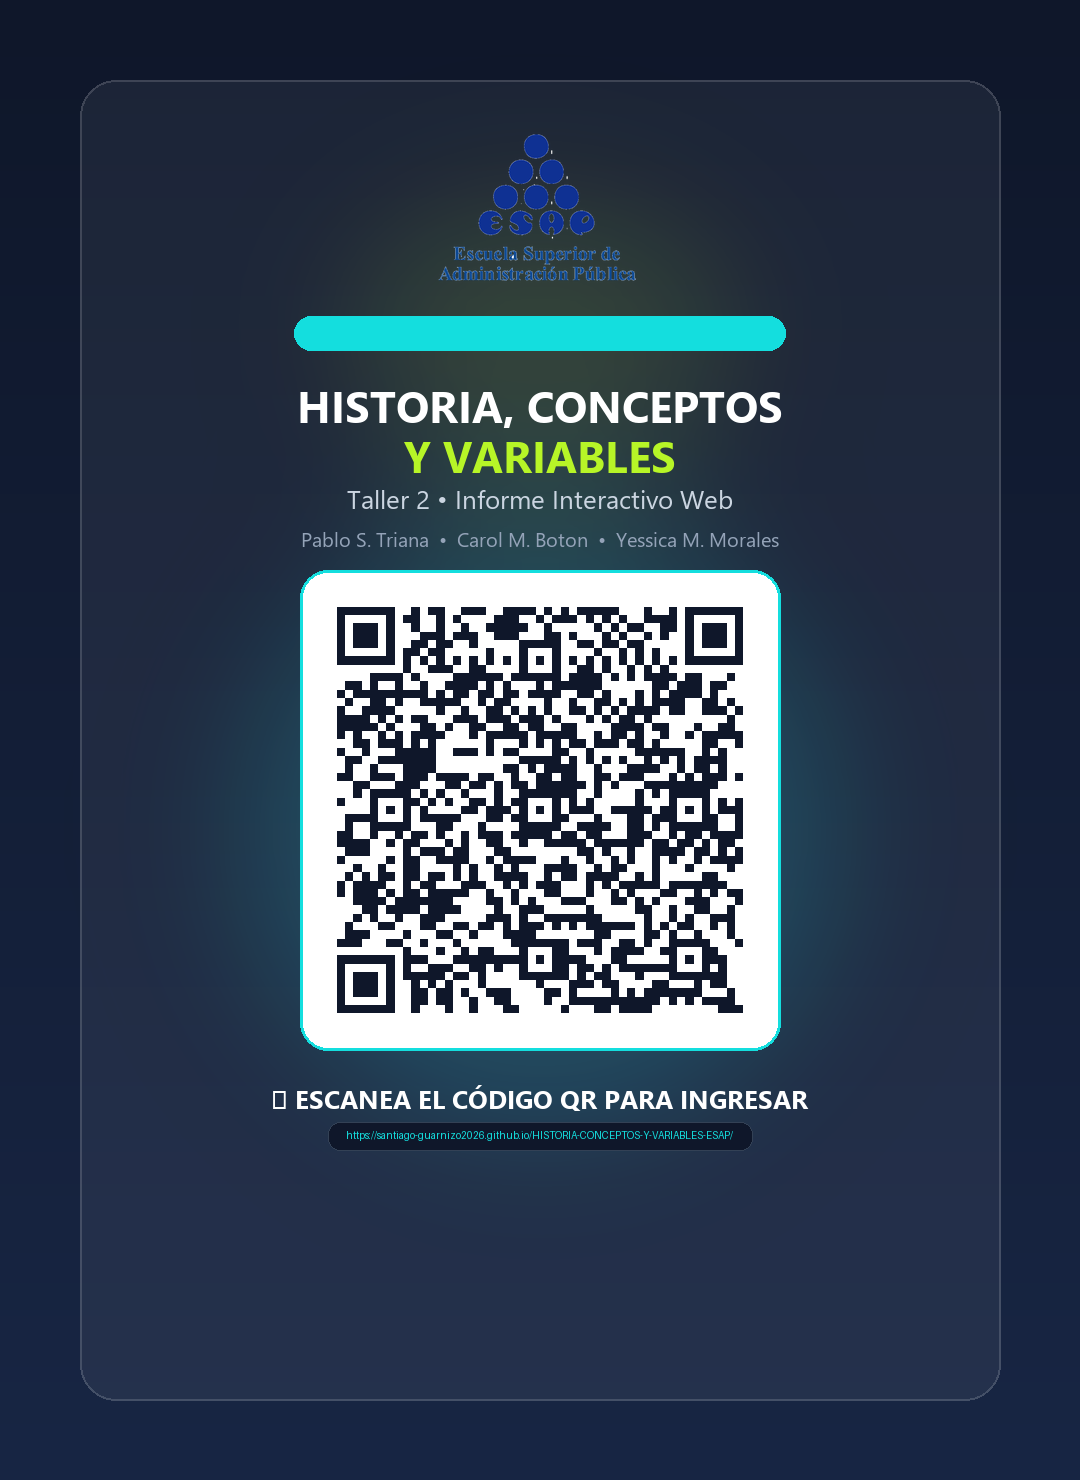
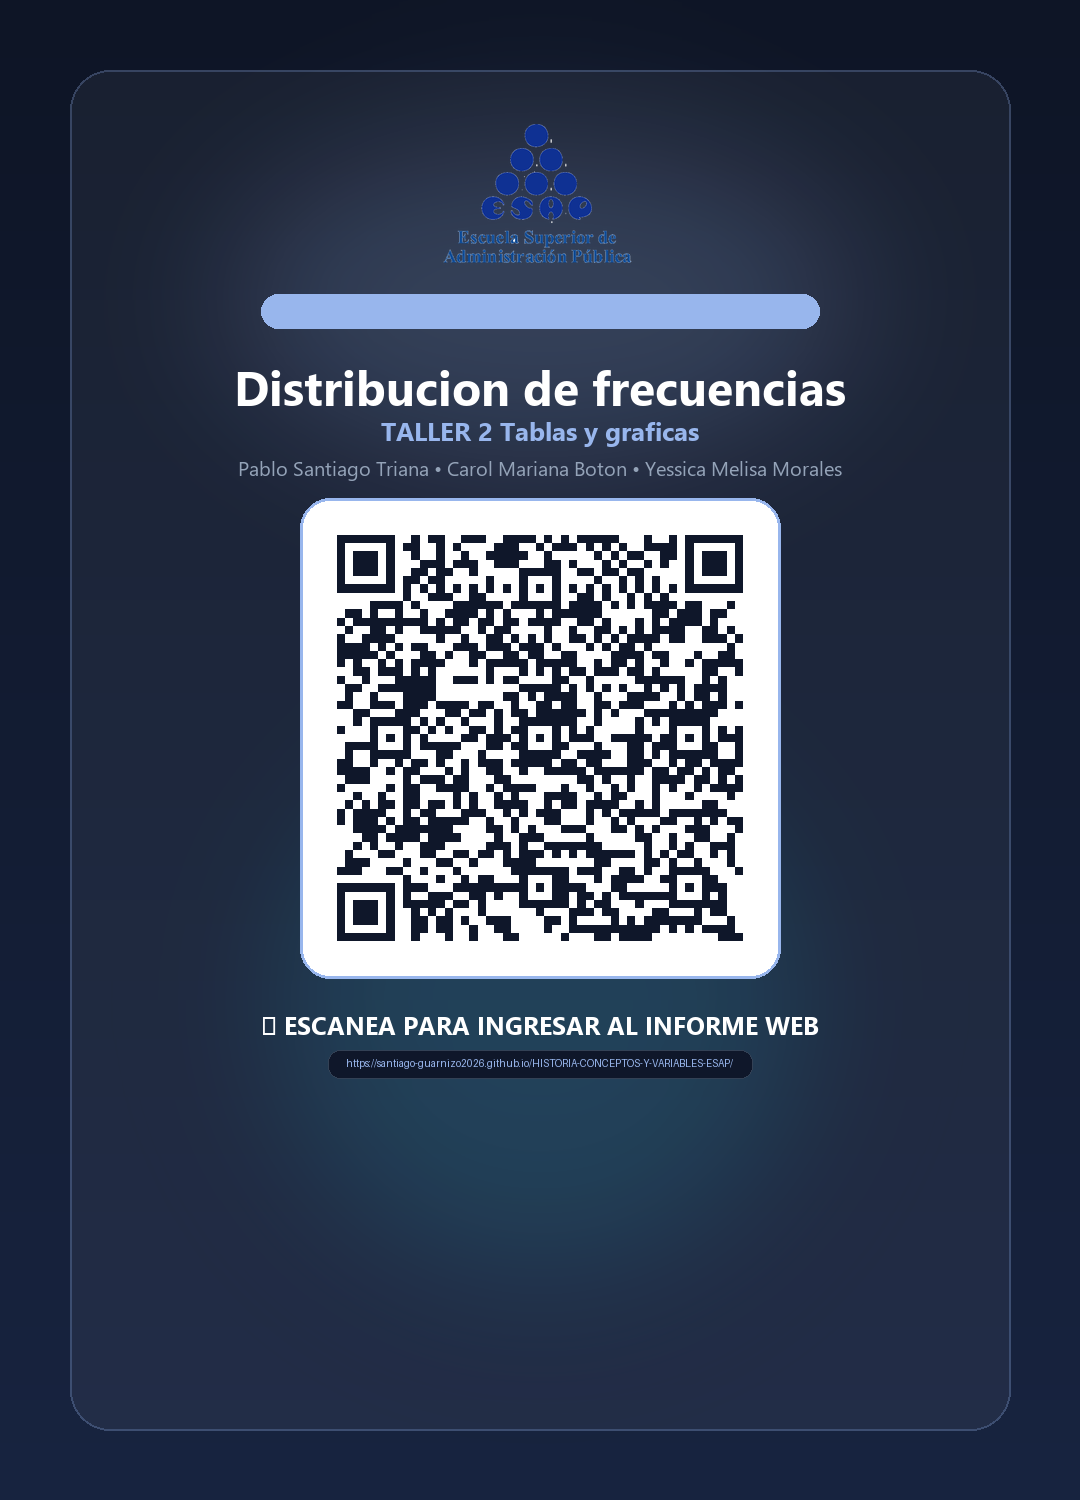
update: cambiar titulo a 'Distribucion de frecuencias' y subtitulo a 'TALLER 2 Tablas y graficas'

Changed region(s): [[0.2139, 0.0622, 0.7944, 0.777], [0.9167, 0.0622, 0.9472, 0.9324], [0.0611, 0.0622, 0.0917, 0.9324]]

diff --git a/index.html b/index.html
@@ -8,7 +8,7 @@
 
 <meta name="author" content="Pablo Santiago Triana Guarnizo Carol Mariana Boton Soto Yessica Melisa Morales Soto">
 
-<title>HISTORIA, CONCEPTOS Y VARIABLES ESAP</title>
+<title>Distribucion de frecuencias</title>
 <style>
 /* Default styles provided by pandoc.
 ** See https://pandoc.org/MANUAL.html#variables-for-html for config info.
@@ -45,7 +45,7 @@ ul.task-list li input[type="checkbox"] {
 <style>
 
       .quarto-title-block .quarto-title-banner {
-        background: #B7F527;
+        background: #98B6ED;
       }
 </style>
 <script src="index_files/libs/kePrint-0.0.1/kePrint.js"></script>
@@ -104,8 +104,8 @@ window.Quarto = {
 <header id="title-block-header" class="quarto-title-block default page-columns page-full">
   <div class="quarto-title-banner page-columns page-full">
     <div class="quarto-title column-page-left">
-      <h1 class="title">HISTORIA, CONCEPTOS Y VARIABLES ESAP</h1>
-            <p class="subtitle lead">TALLER_2</p>
+      <h1 class="title">Distribucion de frecuencias</h1>
+            <p class="subtitle lead">TALLER 2 Tablas y graficas</p>
                       </div>
   </div>
     

diff --git a/generate_qr_card.py b/generate_qr_card.py
@@ -6,7 +6,7 @@ def create_qr_card():
     # Target URL
     target_url = "https://santiago-guarnizo2026.github.io/HISTORIA-CONCEPTOS-Y-VARIABLES-ESAP/"
     
-    # Generate high quality QR code
+    # Generate high quality QR code with High Error Correction
     qr = qrcode.QRCode(
         version=None,
         error_correction=qrcode.constants.ERROR_CORRECT_H,
@@ -19,39 +19,46 @@ def create_qr_card():
     qr_img = qr.make_image(fill_color="#0F172A", back_color="#FFFFFF").convert("RGBA")
     
     # Canvas dimensions
-    W, H = 1080, 1480
-    canvas = Image.new("RGBA", (W, H), (15, 23, 42, 255)) # Dark slate base
+    W, H = 1080, 1500
+    canvas = Image.new("RGBA", (W, H), (15, 23, 42, 255)) # Deep navy slate base
     
-    # Draw subtle background gradient or glow
+    # Gradient background
     draw = ImageDraw.Draw(canvas)
     for y in range(H):
         ratio = y / H
-        r = int(15 * (1 - ratio) + 24 * ratio)
-        g = int(23 * (1 - ratio) + 38 * ratio)
-        b = int(42 * (1 - ratio) + 68 * ratio)
+        r = int(14 * (1 - ratio) + 24 * ratio)
+        g = int(21 * (1 - ratio) + 36 * ratio)
+        b = int(38 * (1 - ratio) + 64 * ratio)
         draw.line([(0, y), (W, y)], fill=(r, g, b, 255))
         
-    # Add a glowing accent circle in background
+    # Ambient glows (matching the banner color #98B6ED and accent #22D3EE)
     glow = Image.new("RGBA", (W, H), (0, 0, 0, 0))
     glow_draw = ImageDraw.Draw(glow)
-    glow_draw.ellipse([W//2 - 350, 480, W//2 + 350, 1180], fill=(20, 222, 222, 45))
-    glow_draw.ellipse([W//2 - 250, 150, W//2 + 250, 500], fill=(183, 245, 39, 35))
-    glow = glow.filter(ImageFilter.GaussianBlur(80))
+    # Top glow (banner soft blue #98B6ED)
+    glow_draw.ellipse([W//2 - 380, 80, W//2 + 380, 520], fill=(152, 182, 237, 50))
+    # Bottom glow (cyan #22D3EE)
+    glow_draw.ellipse([W//2 - 320, 680, W//2 + 320, 1320], fill=(34, 211, 238, 35))
+    glow = glow.filter(ImageFilter.GaussianBlur(90))
     canvas = Image.alpha_composite(canvas, glow)
     draw = ImageDraw.Draw(canvas)
     
-    # Draw Inner Card Frame
-    card_x0, card_y0 = 80, 80
-    card_x1, card_y1 = W - 80, H - 80
+    # Outer Card Frame (Glassmorphism card)
+    card_x0, card_y0 = 70, 70
+    card_x1, card_y1 = W - 70, H - 70
     
-    # Glassmorphism effect card background
     card_bg = Image.new("RGBA", (W, H), (0, 0, 0, 0))
     card_draw = ImageDraw.Draw(card_bg)
-    card_draw.rounded_rectangle([card_x0, card_y0, card_x1, card_y1], radius=36, fill=(255, 255, 255, 14), outline=(255, 255, 255, 50), width=2)
+    card_draw.rounded_rectangle(
+        [card_x0, card_y0, card_x1, card_y1],
+        radius=40,
+        fill=(255, 255, 255, 12),
+        outline=(152, 182, 237, 75),
+        width=2
+    )
     canvas = Image.alpha_composite(canvas, card_bg)
     draw = ImageDraw.Draw(canvas)
     
-    # Fonts
+    # Fonts setup
     font_dir = os.path.join(os.environ.get('WINDIR', 'C:\\Windows'), 'Fonts')
     def get_font(name, size):
         try:
@@ -60,60 +67,55 @@ def create_qr_card():
             return ImageFont.load_default()
             
     font_badge = get_font('segoeui.ttf', 20)
-    font_title = get_font('segoeuib.ttf', 44)
-    font_sub = get_font('segoeui.ttf', 26)
+    font_title = get_font('segoeuib.ttf', 48)
+    font_subtitle = get_font('segoeuib.ttf', 26)
     font_authors = get_font('segoeui.ttf', 20)
-    font_callout = get_font('segoeuib.ttf', 26)
-    font_url = get_font('consolas.ttf', 19)
+    font_callout = get_font('segoeuib.ttf', 25)
+    font_url = get_font('consolas.ttf', 18)
     
     # 1. Logo ESAP
     logo_path = "Logo_Esap.png"
-    current_y = 130
+    current_y = 120
     if os.path.exists(logo_path):
         try:
             logo = Image.open(logo_path).convert("RGBA")
-            # Resize keeping aspect ratio
-            target_w = 210
+            target_w = 200
             ratio = target_w / logo.width
             target_h = int(logo.height * ratio)
             logo = logo.resize((target_w, target_h), Image.Resampling.LANCZOS)
             canvas.paste(logo, ((W - target_w) // 2, current_y), logo)
-            current_y += target_h + 30
+            current_y += target_h + 26
         except Exception as e:
             print("Logo load error:", e)
-            current_y += 40
-            
-    # 2. Pill Tag / Badge
-    badge_text = "ESCUELA SUPERIOR DE ADMINISTRACIÓN PÚBLICA"
+            current_y += 30
+
+    # 2. Institutional Pill Badge
+    badge_text = "ESCUELA SUPERIOR DE ADMINISTRACIÓN PÚBLICA • ESAP"
     bbox = draw.textbbox((0, 0), badge_text, font=font_badge)
-    bw = bbox[2] - bbox[0] + 40
+    bw = bbox[2] - bbox[0] + 44
     bh = bbox[3] - bbox[1] + 16
     bx = (W - bw) // 2
-    draw.rounded_rectangle([bx, current_y, bx + bw, current_y + bh], radius=bh//2, fill=(20, 222, 222, 40), outline=(20, 222, 222, 180), width=1)
-    draw.text(((W - (bbox[2] - bbox[0])) // 2, current_y + 6), badge_text, font=font_badge, fill=(20, 222, 222, 255))
-    current_y += bh + 25
+    draw.rounded_rectangle([bx, current_y, bx + bw, current_y + bh], radius=bh//2, fill=(152, 182, 237, 35), outline=(152, 182, 237, 180), width=1)
+    draw.text(((W - (bbox[2] - bbox[0])) // 2, current_y + 6), badge_text, font=font_badge, fill=(152, 182, 237, 255))
+    current_y += bh + 26
 
-    # 3. Main Title
-    title1 = "HISTORIA, CONCEPTOS"
-    title2 = "Y VARIABLES"
-    bbox1 = draw.textbbox((0, 0), title1, font=font_title)
-    draw.text(((W - (bbox1[2] - bbox1[0])) // 2, current_y), title1, font=font_title, fill=(255, 255, 255))
-    current_y += 50
-    bbox2 = draw.textbbox((0, 0), title2, font=font_title)
-    draw.text(((W - (bbox2[2] - bbox2[0])) // 2, current_y), title2, font=font_title, fill=(183, 245, 39)) # Neon green accent
-    current_y += 55
+    # 3. Main Title: "Distribucion de frecuencias"
+    title_text = "Distribucion de frecuencias"
+    bbox_t = draw.textbbox((0, 0), title_text, font=font_title)
+    draw.text(((W - (bbox_t[2] - bbox_t[0])) // 2, current_y), title_text, font=font_title, fill=(255, 255, 255))
+    current_y += 58
 
-    # 4. Subtitle
-    sub = "Taller 2 • Informe Interactivo Web"
-    bbox_sub = draw.textbbox((0, 0), sub, font=font_sub)
-    draw.text(((W - (bbox_sub[2] - bbox_sub[0])) // 2, current_y), sub, font=font_sub, fill=(203, 213, 225))
-    current_y += 45
+    # 4. Subtitle: "TALLER 2 Tablas y graficas" (highlighted with banner soft blue)
+    subtitle_text = "TALLER 2 Tablas y graficas"
+    bbox_sub = draw.textbbox((0, 0), subtitle_text, font=font_subtitle)
+    draw.text(((W - (bbox_sub[2] - bbox_sub[0])) // 2, current_y), subtitle_text, font=font_subtitle, fill=(152, 182, 237)) # #98b6ed
+    current_y += 42
 
     # 5. Authors
-    authors = "Pablo S. Triana  •  Carol M. Boton  •  Yessica M. Morales"
-    bbox_auth = draw.textbbox((0, 0), authors, font=font_authors)
-    draw.text(((W - (bbox_auth[2] - bbox_auth[0])) // 2, current_y), authors, font=font_authors, fill=(148, 163, 184))
-    current_y += 45
+    authors_text = "Pablo Santiago Triana • Carol Mariana Boton • Yessica Melisa Morales"
+    bbox_auth = draw.textbbox((0, 0), authors_text, font=font_authors)
+    draw.text(((W - (bbox_auth[2] - bbox_auth[0])) // 2, current_y), authors_text, font=font_authors, fill=(148, 163, 184))
+    current_y += 44
 
     # 6. QR Code Container Box
     qr_box_size = 480
@@ -121,30 +123,30 @@ def create_qr_card():
     qr_box_y = current_y
     
     # White rounded square for QR code
-    draw.rounded_rectangle([qr_box_x, qr_box_y, qr_box_x + qr_box_size, qr_box_y + qr_box_size], radius=28, fill=(255, 255, 255, 255))
-    # Border
-    draw.rounded_rectangle([qr_box_x, qr_box_y, qr_box_x + qr_box_size, qr_box_y + qr_box_size], radius=28, outline=(20, 222, 222, 160), width=3)
+    draw.rounded_rectangle([qr_box_x, qr_box_y, qr_box_x + qr_box_size, qr_box_y + qr_box_size], radius=30, fill=(255, 255, 255, 255))
+    # Elegant double-effect border
+    draw.rounded_rectangle([qr_box_x, qr_box_y, qr_box_x + qr_box_size, qr_box_y + qr_box_size], radius=30, outline=(152, 182, 237, 200), width=3)
     
-    # Paste QR code in center of box
+    # Paste QR code inside
     qr_scaled = qr_img.resize((qr_box_size - 40, qr_box_size - 40), Image.Resampling.NEAREST)
     canvas.paste(qr_scaled, (qr_box_x + 20, qr_box_y + 20), qr_scaled)
     
     current_y += qr_box_size + 30
     
     # 7. Scan Instruction Pill
-    scan_text = "📷 ESCANEA EL CÓDIGO QR PARA INGRESAR"
+    scan_text = "📷 ESCANEA PARA INGRESAR AL INFORME WEB"
     bbox_scan = draw.textbbox((0, 0), scan_text, font=font_callout)
     draw.text(((W - (bbox_scan[2] - bbox_scan[0])) // 2, current_y), scan_text, font=font_callout, fill=(255, 255, 255))
     current_y += 42
     
-    # 8. Web URL box
+    # 8. Web URL Badge
     url_display = target_url
     bbox_url = draw.textbbox((0, 0), url_display, font=font_url)
     url_w = bbox_url[2] - bbox_url[0] + 36
     url_h = bbox_url[3] - bbox_url[1] + 18
     url_x = (W - url_w) // 2
-    draw.rounded_rectangle([url_x, current_y, url_x + url_w, current_y + url_h], radius=12, fill=(15, 23, 42, 220), outline=(51, 65, 85, 255), width=1)
-    draw.text(((W - (bbox_url[2] - bbox_url[0])) // 2, current_y + 7), url_display, font=font_url, fill=(20, 222, 222))
+    draw.rounded_rectangle([url_x, current_y, url_x + url_w, current_y + url_h], radius=12, fill=(15, 23, 42, 230), outline=(51, 65, 85, 255), width=1)
+    draw.text(((W - (bbox_url[2] - bbox_url[0])) // 2, current_y + 7), url_display, font=font_url, fill=(152, 182, 237))
 
     # Save output
     output_path = "codigo_qr_proyecto.png"

diff --git a/README.md b/README.md
@@ -1,6 +1,6 @@
-# HISTORIA, CONCEPTOS Y VARIABLES - ESAP
+# Distribucion de frecuencias
 
-**Taller 2 • Escuela Superior de Administración Pública (ESAP)**
+**TALLER 2 Tablas y graficas • Escuela Superior de Administración Pública (ESAP)**
 
 ---
 
